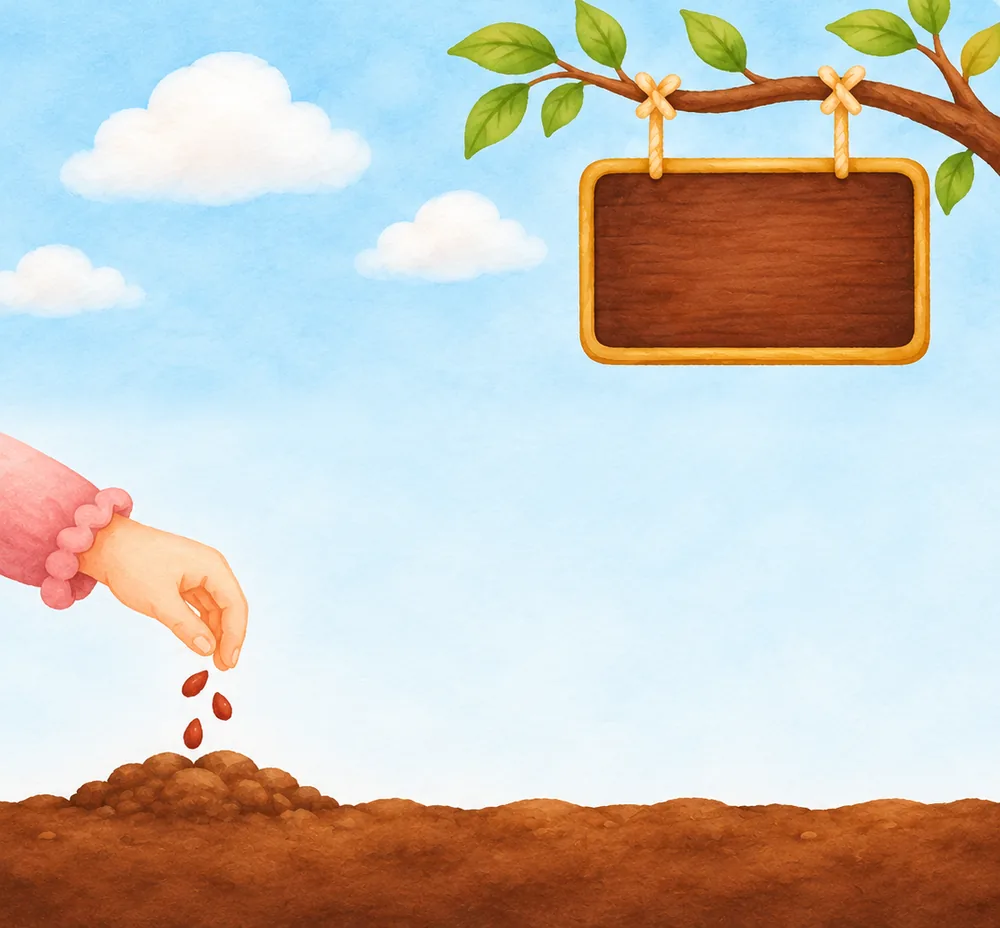
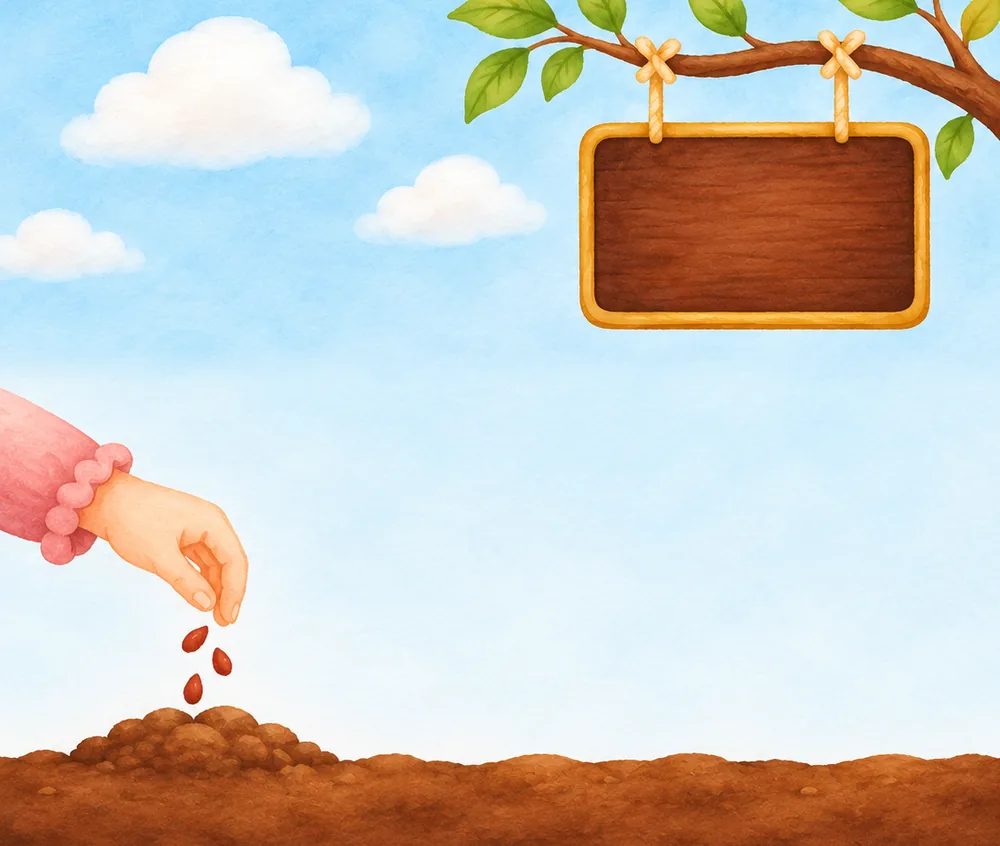
Rajab demo: shorter header, countdown on sign, istighfar on soil
Claude-Session: https://claude.ai/code/session_01HNqMD8RGY7Sm9735KxcNRS

diff --git a/app/rajab-demo.html b/app/rajab-demo.html
@@ -458,14 +458,18 @@ html[data-mode="dark"] .rj-ist{background:var(--soft)}
 .rj-bell .bell-img{width:26px;height:26px;display:block;margin:auto}
 /* الهيدر كله صورة وحدة */
 .hdr{padding:0!important;overflow:hidden;border-color:#a9d3ea!important;background:#bde9fb!important}
-.rj-hero{position:relative;width:100%;aspect-ratio:1122/1042;background:url(files/rajab/hdr-rajab.webp) center/cover no-repeat;container-type:inline-size;cursor:pointer;-webkit-tap-highlight-color:transparent}
-.rj-hero .sg{position:absolute;left:59.5%;top:18.5%;width:32.5%;height:19%;display:flex;align-items:center;justify-content:center;text-align:center;color:#f3c57c;font-weight:700;font-size:6.2cqw;line-height:1.15}
-.rj-hero .tx{position:absolute;right:3%;width:66%;top:42%;display:flex;flex-direction:column;align-items:center;gap:1cqw}
+.rj-hero{position:relative;width:100%;aspect-ratio:1122/950;background:url(files/rajab/hdr-rajab.webp) center/cover no-repeat;container-type:inline-size;cursor:pointer;-webkit-tap-highlight-color:transparent}
+.rj-hero .sg{position:absolute;left:59.3%;top:16.3%;width:32.5%;height:20.5%;display:flex;flex-direction:column;align-items:center;justify-content:center;text-align:center;gap:.8cqw}
+.rj-hero .sg b{color:#f3c57c;font-weight:700;font-size:6cqw;line-height:1.1}
+.rj-hero .sg span{color:#f6ead6;font-size:3.3cqw;font-weight:700;opacity:.95}
+.rj-hero .tx{position:absolute;right:3%;width:66%;top:39%;display:flex;flex-direction:column;align-items:center;gap:1cqw}
 .rj-hero .tx .bsm{font-size:3.8cqw;color:#5d4a2c;margin:0}
 .rj-hero .tx img{display:block;width:100%;height:auto}
 .rj-hero .tx img.ay{width:84%}
-.rj-hero .bg{position:absolute;left:4%;bottom:2.5%;width:32%;text-align:center;color:#fff;font-weight:700;font-size:4.8cqw;text-shadow:0 1px 2px rgba(0,0,0,.4)}
-.rj-hero .bc{position:absolute;right:4%;bottom:3%;background:rgba(255,255,255,.9);color:var(--primary);border-radius:999px;padding:.6cqw 2.8cqw;font-size:3.8cqw;font-weight:700;white-space:nowrap}
+.rj-hero .bg{position:absolute;left:3%;bottom:1.8%;width:32%;text-align:center;color:#fff;font-weight:700;font-size:4.6cqw;text-shadow:0 1px 2px rgba(0,0,0,.4)}
+.rj-hero .ip{position:absolute;right:3%;bottom:1.8%;display:flex;align-items:center;gap:1.2cqw;background:rgba(255,255,255,.92);color:var(--mu);border-radius:999px;padding:.7cqw .9cqw .7cqw 2.6cqw;font-size:3.5cqw;font-weight:700;white-space:nowrap;box-shadow:0 1px 4px rgba(0,0,0,.12)}
+.rj-hero .ip b{color:var(--primary)}
+.rj-hero .ip .pl{width:5.6cqw;height:5.6cqw;border-radius:50%;background:var(--primary);color:#fff;display:flex;align-items:center;justify-content:center;font-size:4cqw;margin-right:1cqw}
 
 </style>
 </head>
@@ -474,20 +478,13 @@ html[data-mode="dark"] .rj-ist{background:var(--soft)}
 <div class="rj-demo">🧪 تجريبي — ما بينحفظ ولا بيوصل للآنسة</div>
 <div class="hdr">
   <div class="rj-hero" id="rjBan" onclick="rjJourney()" role="button">
-    <div class="sg" id="banT"></div>
+    <div class="sg"><b id="banT"></b><span id="jrCd"></span></div>
     <div class="tx"><div class="bsm">بسم الله الرحمن الرحيم</div><img class="ay" src="files/rajab/r2.webp" alt="فلا تظلموا فيهن أنفسكم"><img class="qt" src="files/rajab/r1.webp" alt="عش رجباً ترى عجبا"></div>
     <div class="bg" id="banG"></div>
-    <div class="bc" id="jrCd"></div>
+    <div class="ip" onclick="event.stopPropagation();istOpen()" role="button">الاستغفار <b id="istPill">0</b> / <span id="istGoal2"></span><span class="pl">＋</span></div>
   </div>
 
 </div>
-<div class="rj-ist" onclick="istOpen()" role="button">
-    <span class="lb">استغفار المجموعة</span>
-    <div class="rj-bar"><i id="istBar2"></i></div>
-    <span class="nm"><b id="istPill">0</b> / <span id="istGoal2"></span></span>
-    <span class="pl">＋</span>
-  </div>
-
 <div class="how-box">
   <div class="how-hdr" onclick="toggleHow()"><span>كيف تُحسب النقاط؟</span><span id="howArr">▼</span></div>
   <div class="how-body" id="howBody"></div>
@@ -1285,7 +1282,7 @@ function istRender(){
   const mine=istMine(),tot=RJ.demoBase+mine;
   document.getElementById('istTot').textContent=rjFmt(tot);document.getElementById('istPill').textContent=rjFmt(tot);
   const p=Math.min(100,tot/RJ.goal*100);
-  document.getElementById('istBar').style.width=p+'%';document.getElementById('istBar2').style.width=p+'%';
+  document.getElementById('istBar').style.width=p+'%';
   document.getElementById('istPct').textContent=p.toFixed(1)+'%';
   const last=istLast();
   document.getElementById('istMine').innerHTML='أنتِ أضفتِ: <b>'+rjFmt(mine)+'</b>'+(last?'<a onclick="istUndo()">تراجعي عن آخر إضافة</a>':'');
